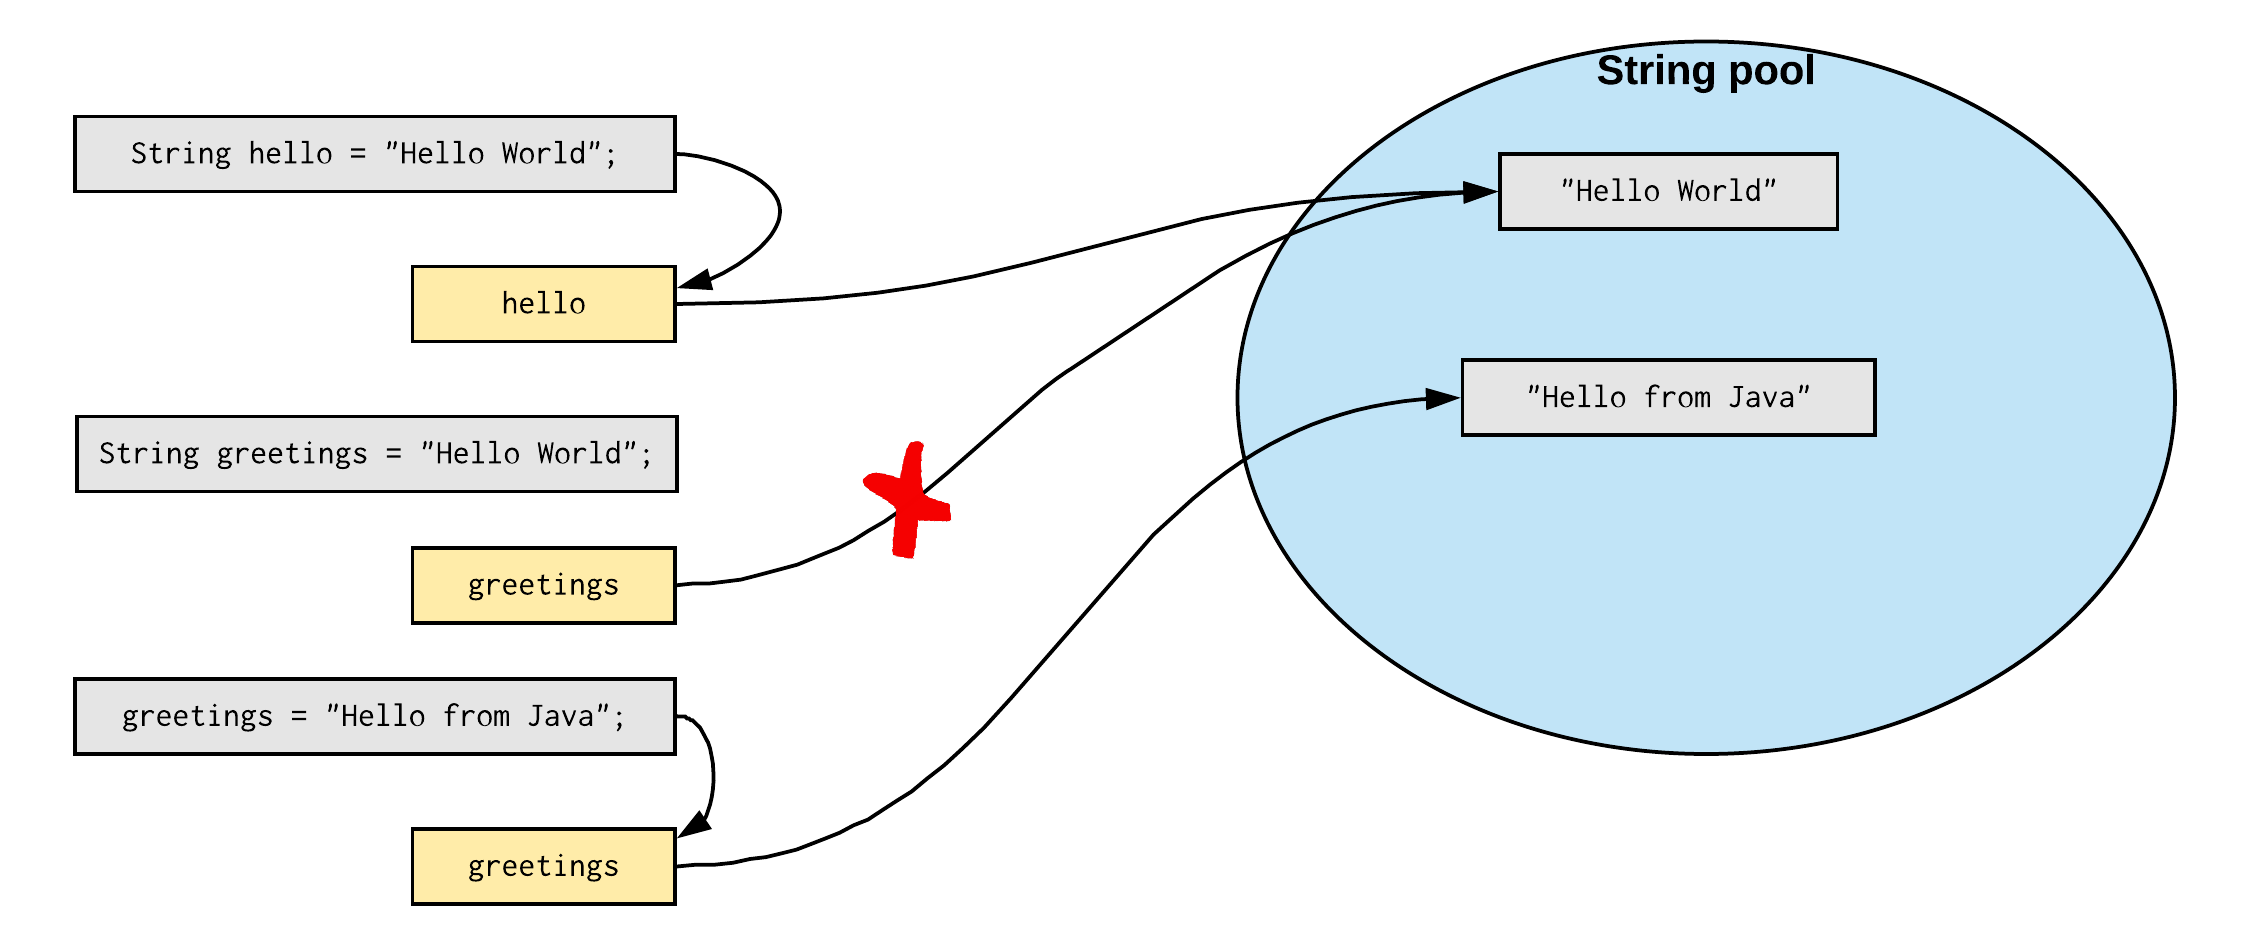
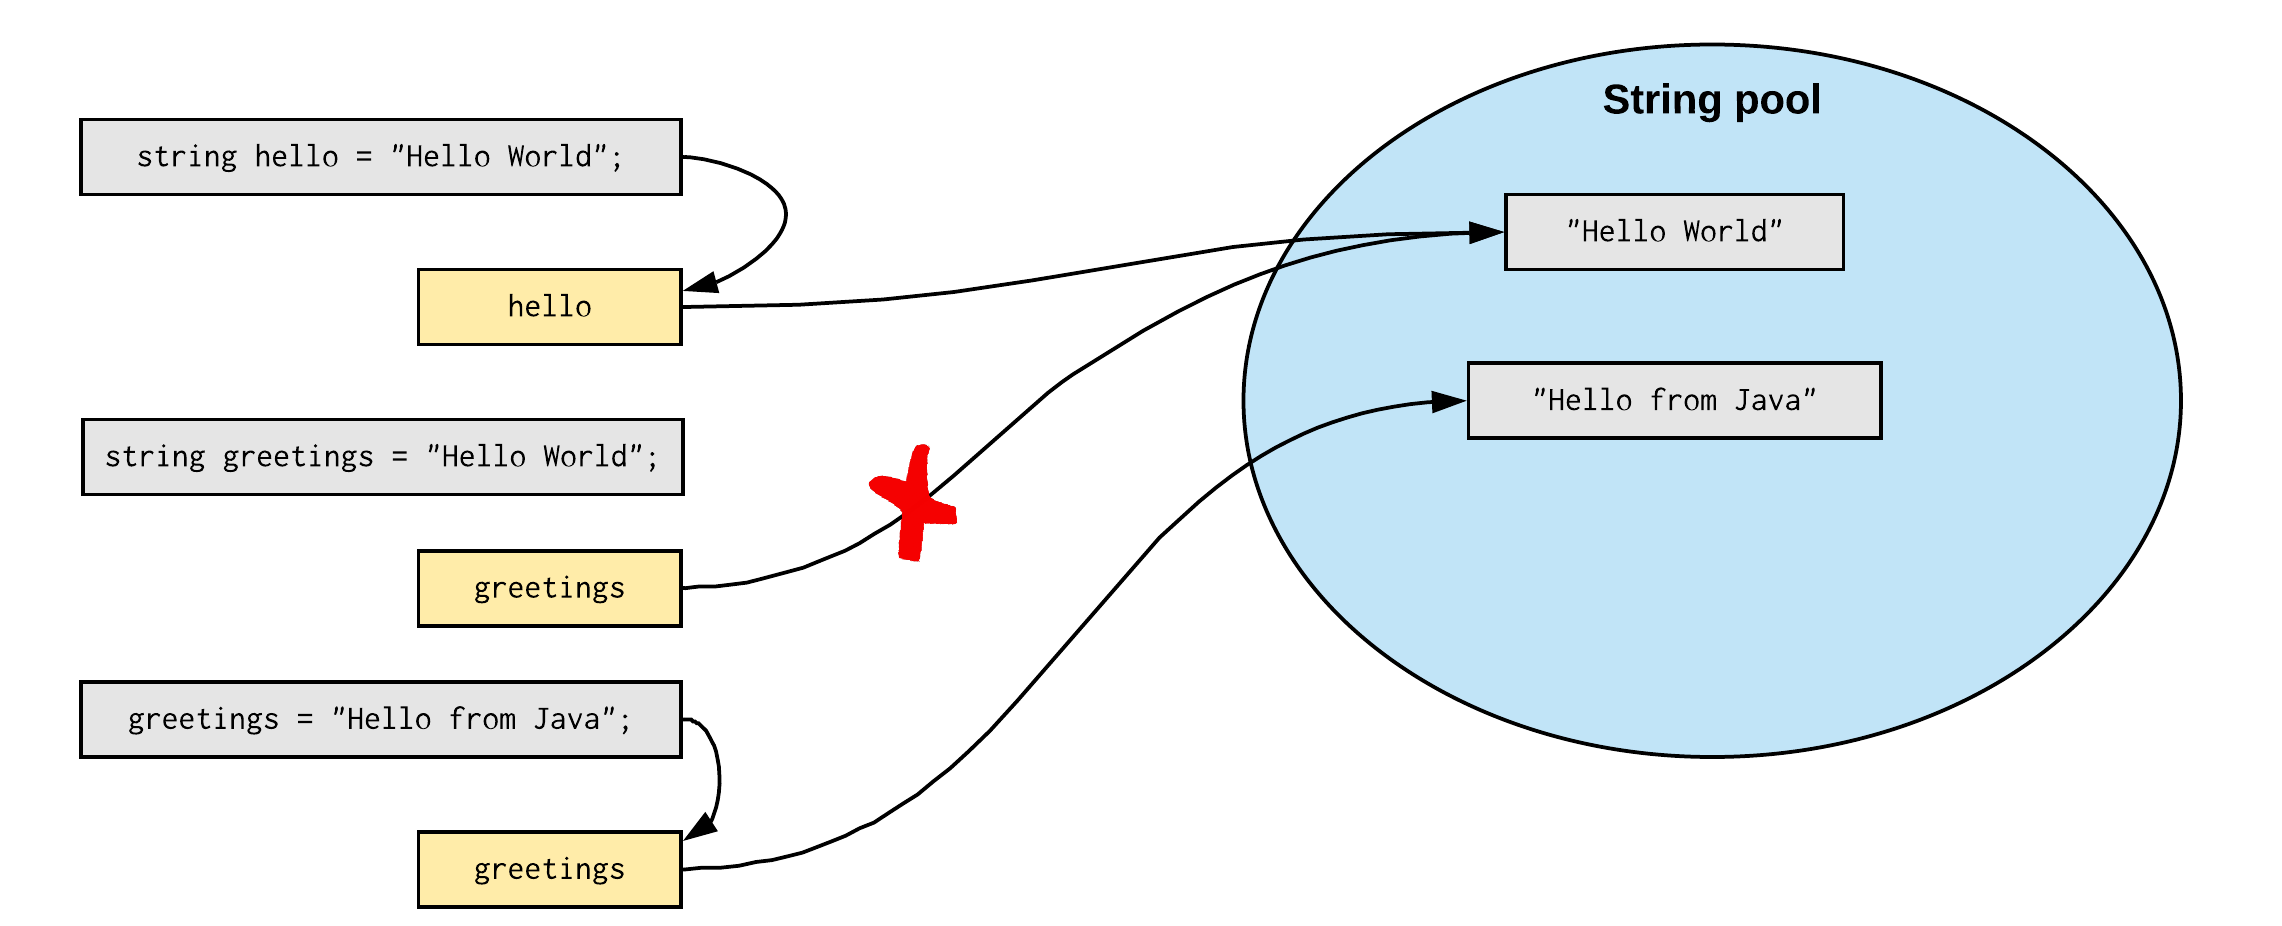
First version of chapter on strings. Still needs some work

diff --git a/docs/introduction/09_strings/README.md b/docs/introduction/09_strings/README.md
@@ -5,7 +5,7 @@ title: 09 - Strings
 
 # Chapter 09 - Strings
 
-`string` is probably the most commonly used data type for variables in C#. It is so popular that you actually already have been using strings since the beginning of this course. Remember your first statement?
+The data type `string` is probably the most commonly used data type for variables in C#. It is so popular that you actually already have been using strings since the beginning of this course. Remember your first statement?
 
 ```csharp
 Console.WriteLine("Hello World");
@@ -17,4 +17,268 @@ Well, this application was outputting the `string` `"Hello World"` to the termin
 
 Compared to most other data types you have been using, `string` is actually a **class**, where those other types (`int`, `double`, ...) are not.
 
-Remember from [Chapter 4 - Storing Data, Simple Value Types](../04_storing_data/README.md#data-types) actually has two categories of data types:
+Remember from [Chapter 4 - Storing Data, Simple Value Types](../04_storing_data/README.md#data-types) C# actually has two categories of data types:
+
+* **Simple Value Types**: char, byte, short, int, long, double, float and boolean.
+* **Reference types**: String, Random, ...
+
+**Simple value types are simple and integrated in the language** (they are most of the time keywords in the language itself). **Reference data types are actually classes**. This means that when we use the `string` data type, we are actually using objects of the class `String` (notice the capital letter). The cool thing about non-value data types is that we can create our own as we shall see later in this course.
+
+::: tip Classes start with Capital letters
+Class-names always start with capital letters (`Random`, `String`, ...). This is a convention used in many programming languages. Then why doesn't the datatype `string`? Well actually because `string` is an alias for `String`.
+:::
+
+All you need to know at the moment about a class is the following:
+
+* A class is like a blueprint that is used to create objects from that class.
+* The **name** of a class, in this case `String`, **acts just as a data type**. This means that we can create variables of type `String`. Actually the variable points to **an object of that class**.
+* A class internally **contains data**, in the case of a `String` this is a sequence of characters.
+* A class **has methods**, which are like actions that can be requested from the objects created from the class.
+
+## Creating Strings using Literals
+
+The most direct way to create a string is to assign a string **literal** to a variable of type `string` as shown in the next code example.
+
+```csharp
+string greetings = "Hello there. What a fascinating world we live in";
+
+// Print the greetings String to the terminal
+Console.WriteLine(greetings);
+```
+
+When C# encounters a string literal in our code (`"Hello there. What a fascinating world we live in"` in the previous example), it will automatically create an object of the class `String` and place our literal value inside of it.
+
+## The C# string intern pool
+
+Each time you create a string using the literal syntax shown in the following example, the CLR checks the **String Intern Pool** first.
+
+The string intern pool in C# is a pool of String objects stored in memory. When a String variable is created and assigned a literal value, the CLR searches the pool for a string of equal value. If found, the CLR will simply return a reference to the existing memory address, without allocating additional memory. If the string doesn't exist in the pool, a new string object is created and placed in the pool. For example:
+
+```csharp
+string hello = "Hello World";
+string myName = "John Rambo";
+string greetings = "Hello World";
+```
+
+In the previous example, only two string objects will be created. First, the CLR will not find any string object with the value `"Hello World"` in the string pool, that is why it will create a new object. Again for the second statement, the CLR will not find any string object with the value `"John Rambo"` in the string pool. A new object is created and stored in the variable.
+
+For the third statement the pool is checked again and this time a string with the value `"Hello World"` is found. The CLR will make the `greetings` variable point to the string that was found.
+
+![The C# String pool](./img/string_pool.png)
+
+One of the main reasons for this is saving memory.
+
+## Creating Strings using the new keyword
+
+There are two options to create strings from liters. The first we have already used, which is direct assignment of a String literal. The second option is using the approach of using the `new` keyword, as we have done already with classes such as `Random`.
+
+As with any other class, you can create objects from classes by using the `new` keyword.
+
+```java
+String greetings = new String("Hello there. What a fascinating world we live in");
+
+// Print the greetings String to the terminal
+Console.WriteLine(greetings);
+```
+
+This approach is the **general way of creating objects from classes**, but is rarely seen in cases of strings. This because this approach **will force the creating of new String objects and therefore not use the String pool**.
+
+::: warning What about non-literals
+What about when the string is not created using a string literal but coming for example from user input? In this case the string intern pool mechanism is not used.
+:::
+
+So why aren't all strings interned by default, then? Basically because **using the intern string pool requires CPU cycles** to check if the string exists in the pool. When not using the string pool mechanism, it's just memory that is being consumed.
+
+## Strings are Immutable
+
+An **object whose internal state cannot be changed after it is created** is known as **an Immutable object**. The String class is such an example. Objects of type String cannot be changed. If you assign a new value to a String variable, actually a new String object is created (of course after the pool is checked in case of literals).
+
+So for example the following code will result in a string pool as shown in the image following the code.
+
+```csharp
+string hello = "Hello World";
+
+string greetings = "Hello World";
+greetings = "Hello from C#";
+```
+
+![Changing an Immutable String](./img/immutable.png)
+
+If one thinks about it, it's quite logical that String objects are immutable. Otherwise the string pool would not be practical if other variables would be able to modify your objects.
+
+::: tip String Interning
+The string pool is the CLR's particular implementation of the concept of **string interning**. In computer science, string interning is a method of storing only one copy of each distinct string value, which must be immutable. Interning strings makes some string processing tasks more time- or space-efficient at the cost of requiring more time when the string is created or interned. The distinct values are stored in a string intern pool.
+:::
+
+## Strings have Methods
+
+Once an object of `String` exists, **actions can be requested from the object**. This is most often referred to as **calling methods** of the object.
+
+To call a method of an object one can use the following syntax:
+
+```csharp
+object.nameOfMethod();
+```
+
+So, calling method is stating its name followed by parentheses `()`. However a method can only be called on an object, so this needs to be specified first by stating the name of the object variable followed by the dot `.` operator.
+
+For example to convert a full string to lowercase, one can call the `ToLower()` method as shown in the next code snippet. The method will return a new string object which can be stored inside a variable or processed directly.
+
+```csharp
+string hello = "Hello World";
+
+// Converting to lower case
+string helloLowerCase = hello.ToLower();
+
+Console.WriteLine($"{hello} converted to lowercase results in {helloLowerCase}");
+```
+
+::: codeoutput
+<pre>
+Hello World converted to lowercase results in hello world
+</pre>
+:::
+
+Take a look at the C# API documentation to find out more about the String class. It can be found at [https://docs.microsoft.com/en-us/dotnet/csharp/programming-guide/strings/](https://docs.microsoft.com/en-us/dotnet/csharp/programming-guide/strings/).
+
+## Accessing the Characters
+
+As stated before, a string is internally a sequence of characters. This would suggest that each character is accessible separately. And it is, through the index operator `[]`. The index operator takes an integral value and uses it to select the element at that index (zero-based).
+
+So to print the characters of a string to the terminal separated by a space, a for loop can be used as shown in the next snippet.
+
+```csharp{4}
+string helloWorld = "Hello World from C#!";
+
+for (int i = 0; i < helloWorld.Length; i++) {
+  char character = helloWorld[i];
+  Console.Write($"{character} ");
+}
+```
+
+::: codeoutput
+<pre>
+H e l l o   W o r l d   f r o m   C # !
+</pre>
+:::
+
+Note how the length of the string can be accessed by using the property `helloWorld.Length`. More on properties later.
+
+## Values versus References
+
+When you declare a variable of a primitive type in C#, the variable will label the memory location where the actual value is stored that you assigned via the variable.
+
+Example:
+
+```csharp
+double pi = 3.1415;
+Console.WriteLine(pi);       // Output: 3.1415
+```
+
+This can be represented using a simple diagram:
+
+![Variable holding primitive value](./img/primitive_value.png)
+
+However when you create an object and assign the result of the `new` statement to a variable, the variable will not hold the object itself. It will instead hold a **reference** to the location of the object in memory.
+
+Example:
+
+```csharp
+string hello = "Hello World";
+```
+
+This can be represented using a simple diagram:
+
+![Variable holding reference to String object](./img/object_reference.png)
+
+### Copying Variables
+
+So in other words when you copy a variable of a primitive type, you are making a copy of the value.
+
+Example:
+
+```csharp
+int number = 15;
+int secondNumber = number;
+```
+
+![Primitive copy](./img/primitive_copy.png)
+
+Changing `secondNumber` will not have any effect on the original `number`.
+
+However the situation changes when dealing with references to objects. In this case the object is not copied, but the reference held by the variable is copied. This means that you get another reference pointing towards the same object.
+
+```csharp
+string hello = "Hello World";
+string greeting = hello;
+```
+
+![Reference copy](./img/reference_copy.png)
+
+<!-- Note for later - Immutability of Strings again does not allow us to change the object -->
+
+### The null value
+
+When declaring a variable of a non-primitive type without assigning a value to it, it has nothing to reference. This is indicated in the C# language using the `null` reference.
+
+Graphically this can be represented as:
+
+![Variable containing null reference](./img/null_reference.png)
+
+We can later assign a reference to it by for example creating a new object and assigning it to the variable as follows:
+
+```csharp
+string hello;
+//...
+hello = "Greetings from OOP";
+```
+
+In C#, the CLR will not allow the usage of a local variable that has not been initialized. This because when a method is called on a null-reference, your program will crash.
+
+## Train Yourself
+
+### Multiple Choice
+
+1. Which of the statements below has no valid value for initializing a String variable?
+
+    * `string text = null;`
+    * `string text = "Hello World";`
+    * `string text = "There are " + 4 + " people waiting before you";`
+    * `string text = '\n';`
+
+2. How do we call the special characters in a string that are preceded with a backslash `\`?
+
+    * Insert characters
+    * Meta characters
+    * Terminators
+    * Escape characters
+
+3. What is an immutable object?
+
+    * An object that was instantiated without an existing class
+    * An object that was instantiated without the `new` keyword
+    * An object for which the reference cannot be saved into a variable
+    * An object whose internal state cannot be changed
+
+4. How many `String` objects will exist at the end of the following code block?
+
+    ```csharp
+    string hello = "Hello";
+    string world = " World";
+    string bye = "Bye";
+    string greeting = hello + world;
+    string goodbey = bye + world;
+    ```
+
+    * 3
+    * 5
+    * 7
+    * 9
+
+### Exercises and Challenges
+
+Checkout the exercises and challenges which can be found at [https://github.com/BioBoost/csharp_practical](https://github.com/BioBoost/csharp_practical).
+
+<!-- TODO: -->
+<!-- - Escape chars -->
+<!-- - @ (verbatim strings) - $ strings -->
